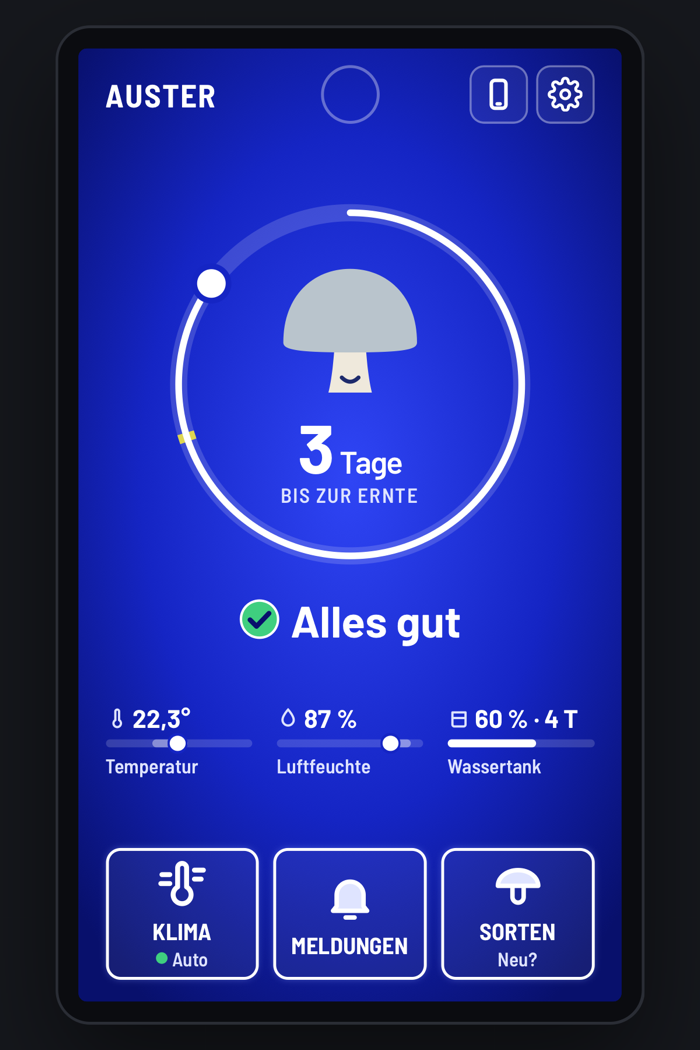
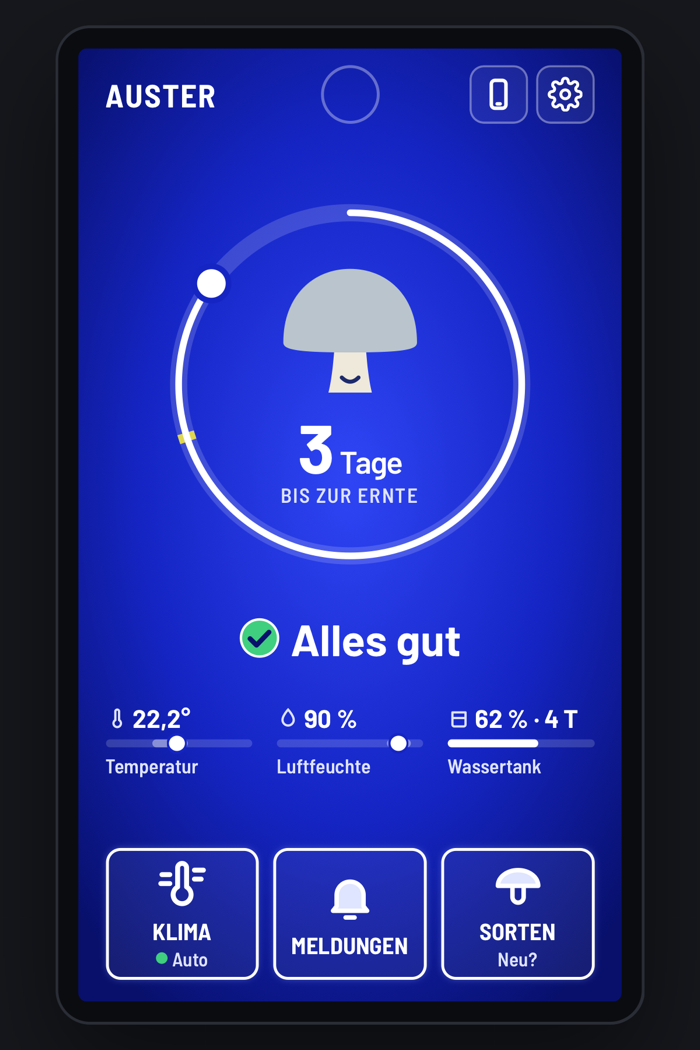
feat: größere Fenster für Kammer leeren, Zuchtset, Darstellung, Sprache; Darstellung Individuell (nur Anzeige); Alles gut mittig; Fenster in der Pause nicht abgedunkelt

diff --git a/01-konzept/bedienfeld/index.html b/01-konzept/bedienfeld/index.html
@@ -107,7 +107,7 @@ button{font:inherit;color:inherit;cursor:pointer;-webkit-tap-highlight-color:tra
 .hum small{font-size:5.4cqw;font-weight:600;margin-left:1.2cqw}
 .humlbl{font-family:var(--f-cond);font-size:3.8cqw;font-weight:600;letter-spacing:.06em;color:var(--ink-soft);text-transform:uppercase;margin-top:.7cqw}
 
-.alert{width:100%;margin-top:2cqw;border:0;background:transparent;padding:1.2cqw 1.4cqw;border-radius:2cqw;display:flex;flex-direction:column;align-items:center;gap:.6cqw;text-align:center;line-height:1.1}
+.alert{width:100%;margin-top:2cqw;border:0;background:transparent;padding:1.2cqw 1.4cqw;border-radius:2cqw;display:flex;flex-direction:column;align-items:center;justify-content:center;gap:.6cqw;text-align:center;line-height:1.1}
 .alert .t{display:flex;align-items:center;gap:2cqw;font-weight:700;font-size:7cqw}
 .alert .t svg{flex:none;width:7.6cqw;height:7.6cqw}
 .alert .a{font-size:4.6cqw;max-width:72cqw;font-weight:600;color:var(--ink-soft)}
@@ -118,13 +118,18 @@ button{font:inherit;color:inherit;cursor:pointer;-webkit-tap-highlight-color:tra
 .alert:not(.warn) .t{font-size:8.4cqw}
 .alert:not(.warn) .t svg{width:8.6cqw;height:8.6cqw}
 /* Einstellungen und Admin: Balken ca. 1,5× so hoch, Schrift größer (Display wird mit dem Finger bedient) */
-.panel-settings .opt,.panel-admin .opt,.panel-sort .opt,.panel-pick .opt{min-height:19.5cqw;padding:3.6cqw 3.6cqw;font-size:5.6cqw;gap:3.2cqw}
-.panel-settings .opt svg,.panel-admin .opt svg,.panel-sort .opt svg,.panel-pick .opt svg{width:8cqw;height:8cqw}
-.panel-settings .opt small,.panel-admin .opt small,.panel-sort .opt small,.panel-pick .opt small{font-size:.85em}
-.panel-settings .bigbtn,.panel-sort .bigbtn,.panel-link .bigbtn{min-height:16cqw;font-size:5.4cqw}
+.panel-settings .opt,.panel-admin .opt,.panel-look .opt,.panel-lang .opt,.panel-sort .opt,.panel-pick .opt{min-height:19.5cqw;padding:3.6cqw 3.6cqw;font-size:5.6cqw;gap:3.2cqw}
+.panel-settings .opt svg,.panel-admin .opt svg,.panel-look .opt svg,.panel-lang .opt svg,.panel-sort .opt svg,.panel-pick .opt svg{width:8cqw;height:8cqw}
+.panel-settings .opt small,.panel-admin .opt small,.panel-look .opt small,.panel-lang .opt small,.panel-sort .opt small,.panel-pick .opt small{font-size:.85em}
+.panel-settings .bigbtn,.panel-look .bigbtn,.panel-lang .bigbtn,.panel-sort .bigbtn,.panel-link .bigbtn{min-height:16cqw;font-size:5.4cqw}
 .panel-sort p,.panel-pick p,.panel-link p,.panel-link ol,.panel-info p{font-size:5cqw}
 .panel-link .rec,.panel-confirm .rec{font-size:6cqw;padding:3.6cqw;min-height:16cqw}
 .panel-confirm ul{font-size:5cqw}
+/* Neu ansetzen: Kammer leeren / Zuchtset einsetzen in Einstellungs-Größe, Knöpfe untereinander */
+.panel-new p{font-size:5.2cqw}
+.panel-new .steps{font-size:4.6cqw}
+.panel-new .btnrow{flex-direction:column;align-items:stretch;gap:3.6cqw}
+.panel-new .bigbtn{flex:none;width:100%;min-height:16cqw;font-size:5.4cqw}
 .panel-link .rec svg{width:8cqw;height:8cqw}
 .panel-info .spec{font-size:5.2cqw}
 .btnrow.wrap{flex-direction:column;align-items:stretch;align-self:stretch;width:100%;gap:3.6cqw;margin-top:3cqw}
@@ -235,6 +240,7 @@ button{font:inherit;color:inherit;cursor:pointer;-webkit-tap-highlight-color:tra
 .swatch{flex:none;width:8cqw;height:8cqw;border-radius:1.8cqw;border:.5cqw solid #fff;box-shadow:0 0 0 .3cqw rgba(0,0,0,.35)}
 .swatch.std{background:radial-gradient(circle at 40% 35%,#2f45f5,#1525c4 60%,#08106c)}
 .swatch.hc{background:#000}
+.swatch.custom{background:conic-gradient(#e74c3c,#f1c40f,#2ecc71,#3498db,#9b59b6,#e74c3c)}
 .opt[disabled]{opacity:.5}
 .opt[aria-checked="true"]{border-color:var(--ink);background:var(--ink);color:var(--lcd-mid)}
 .g3 .opt{justify-content:center;text-align:center}
@@ -560,7 +566,7 @@ function syncLog(list){
 function render(){
   const d=new Date(), T=tgt(), list=alerts(), top=list[0], sev=top?.sev||"ok";
   syncLog(list);
-  $("#screen").classList.toggle("standby",!S.power&&!S.rest);
+  $("#screen").classList.toggle("standby",!S.power&&!S.rest&&!open);  // offenes Fenster nicht abdunkeln
   $("#screen").classList.toggle("away",S.power&&!!S.away);
   $("#screen").classList.toggle("hc",S.theme==="hc");
   const showVal=S.power&&!demo.sensor, pr=progress(), v=pr.p*360, tk=pr.tick*360;
@@ -951,10 +957,12 @@ function langPanel(){
 /* Darstellung: Standard (Blau) oder Hoher Kontrast (Schwarz). Wirkt sofort, damit man es vergleichen kann. */
 function lookPanel(){
   const o=(k,n,d)=>`<button class="opt" role="radio" data-theme="${k}" aria-checked="${(S.theme||"std")===k}"><span class="swatch ${k}" aria-hidden="true"></span><div>${n}<small>${d}</small></div></button>`;
-  panel("look","Darstellung",`<div class="list">${o("std","Standard (Blau)","Ruhiger blauer Hintergrund")}${o("hc","Hoher Kontrast","Schwarzer Hintergrund, alle Texte weiß")}</div>
+  panel("look","Darstellung",`<div class="list">${o("std","Standard (Blau)","Ruhiger blauer Hintergrund")}${o("hc","Hoher Kontrast","Schwarzer Hintergrund, alle Texte weiß")}<button class="opt" data-custom><span class="swatch custom" aria-hidden="true"></span><div>Individuell<small>Such dir deinen eigenen Ton aus</small></div></button></div>
     <p>Warnungen bleiben immer an Dreieck, „!“ und Text erkennbar, nicht nur an der Farbe.</p>
     <button class="bigbtn out" data-x>‹ Einstellungen</button>`,p=>{
     p.querySelectorAll("[data-theme]").forEach(b=>b.onclick=()=>{S.theme=b.dataset.theme;save();render();lookPanel();msg(S.theme==="hc"?"Hoher Kontrast an":"Standard-Farben")});
+    // Individuell: nur gezeigt, im Prototyp ohne Funktion
+    p.querySelector("[data-custom]").onclick=()=>msg("Individuell: im Prototyp noch nicht verfügbar");
     p.querySelector("[data-x]").onclick=settingsPanel;p.querySelector("[data-back]").onclick=settingsPanel});
 }
 /* Fehler melden: eine Kategorie antippen, fertig. Der Bericht geht mit dem nächsten Stand an die App. */

diff --git a/BRIEF.md b/BRIEF.md
@@ -59,7 +59,7 @@ Von Felix bestätigt. Diese Tabelle ist der maßgebliche Stand; Überholtes wird
 | 7–8 | Hardware | **Raspberry Pi bleibt Steuerrechner; als Display dient ein fest eingebautes iPhone 13 mini** (statt Touch Display 2), das die Web-Oberfläche des Pi über WLAN zeigt; Dauerstrom per Kabel. **Echt:** Taster und LED. **Simuliert:** Feuchte und Temperatur (für die Vorführung umschaltbar). Lüfter, Vernebler und Sensor sind nicht Teil des Prototyps. |
 | – | **Leitidee** | **B „Radikal einfach“:** ein großer Zustand (Farbe + Symbol + ein Satz), darunter drei große Kacheln. Verworfen: A „Pilz-Begleiter“ (Charakter, Gamification), C „Physisch zuerst“ (Taster/Drehknopf/LED-Ring). |
 | 10 | Startbild | **Nur 2 Stufen:** „Alles gut“ (grüner Kreis mit Haken) oder **Warnung** (gelbes Warndreieck nach ISO 7010, schwarzer Rand und „!“). Immer Form + Farbe + Text. **Blinken nur beim Warnpunkt** oben (Handeln nötig, Folie 27); alles andere ruhig. Hinweise wie „Ernte prüfen“ laufen unter „Alles gut“. |
-| 10 | Bedienfeld (Box) | **Stand 2026-11-02 (v6):** `01-konzept/bedienfeld/index.html`, aufbauend auf dem Panel-Prototyp (https://claude.ai/artifact/EGmf5bvFTK16eYGfKWVkPE). Begründungen mit Folien: `04-final/entscheidungen-folien.md` und `01-konzept/folien-recherche.md`. **Grundsatz:** Das Display bleibt schlank, Erweitertes gehört in die App (eigene Sorten, 1 Min lüften/befeuchten, Analytics). **Kopfzeile:** eine Zeile, alles 44 pt hoch: links Sorte in Großbuchstaben (AUSTER …); Mitte **Warnpunkt** (dunkler Ring; leuchtet orange und **blinkt nur im Standby**, ohne „!“; wirkt wie ein Warnlicht, siehe Ruhemodus); rechts **Handy-Symbol** und **Zahnrad** als gleich große Knöpfe. Handy antippen → Code + Knopf **VERBUNDEN** → Symbol ausgeblendet (zurück: Einstellungen → Handy verbinden → Trennen; **nach dem Neuladen ist das Symbol wieder da**, für die Präsentation). Keine Uhr. **Mitte:** Ring = Fortschritt bis zur Ernte, in der Mitte Tage bis zur Ernte; darunter Status (nur „Alles gut“, etwas größer, ohne Satz darunter (2026-11-04), oder Warnung mit Handlung und einem großen Knopf). **Werte:** Temperatur · Luftfeuchte · Wassertank einheitlich (Zahl, Balken, Name); Tank als `62 % · 4 T` in gleicher Schrift (T = Tage, Vorlesetext „reicht ca. 4 Tage“). Werte außerhalb des Bereichs mit Warndreieck. **3 Kacheln:** **KLIMA** (klein „Auto“ mit ruhigem grünem Punkt) · **MELDUNGEN** (Zahl) · **SORTEN** (klein „Neu“). **Klima-Fenster (2026-11-04):** ein Satz oben („Die Box regelt Luft, Feuchte, Wärme und Licht selbst.“), darunter 4 **Textzeilen mit dezentem Trennstrich** (wie der Verlauf in Meldungen): Lüfter · Nebler · Heizung · Licht, je **AUTO** und 1–3 weiße Wörter (mit **konkreten Bedingungen je Sorte und Phase**: Lüfter „alle 30 Min frische Luft“ (beim Durchwachsen „nur bei zu viel CO₂“), Nebler „an unter X % Feuchte“, Heizung „an unter X °C“, Licht „8–20 Uhr“ (beim Durchwachsen aus) + **beiger runder Taster-Zeichen** „Taster ↓ schaltet um“; **Licht = Auto + Taster** (Taster schaltet bis zum nächsten Wechsel um); **ohne Eingriff**, keine Live-Zustände. **Klima und Meldungen** haben dieselbe Größe wie die Einstellungen. **Grundsatz: Rahmen = drückbar, Trennstrich = nur Text** (farbige Statusbalken wie „Alles gut“ bleiben). **Meldungen:** Stand mit Datum/Uhrzeit, offene Meldungen mit Handlung und „seit“, **Verlauf behobener Meldungen grün mit Haken** („behoben · von – bis“). „Zu nass“/„Braucht Frischluft“ mit GESEHEN. **Sortenlisten:** Schwierigkeit als **1–3 kleine Pilze** (volle = Stufe, blasse = nicht; wie ein Level, nicht wie eine Bewertung mit Sternen; auch auf der Detailseite) und nur „20 Tage“; Fenster Sorten, Neu ansetzen, Sorte, Handy verbinden in Einstellungs-Größe. **Sorten · Neu:** oben Stand des Durchgangs und Knopf **Neu ansetzen …** (Sorte wählen, aktuelle „wie bisher“ oben) → Hinweis, was verloren geht (**direkt nach der Ernte** ohne Rückfrage: Sorte antippen → gleich **Zuchtset einsetzen → Starten**, weil die Kammer schon leer ist; zusätzlich **„Kleine Pause einlegen“**: Box ruht, oben „Kein Pilz“, Status „Pause“, Knopf „Neue Sorte“ bzw. SORTEN → „Neue Sorte wählen …“) → **2 s gedrückt halten** → Kammer leeren → Zuchtset einsetzen, Tag 1. Darunter Sorten **ansehen** (Schwierigkeit, Dauer, Temperatur, Feuchte). **Notfall-Rückweg** „Zurück zu …“ 14 Tage. **Einstellungen (Zahnrad):** Handy verbinden · Urlaub · **Sprache** (Prototyp nur Deutsch, andere ausgegraut) · **Darstellung** (Standard Blau / **Hoher Kontrast** Schwarz) · **Hilfe** (rote Flagge, früher „Fehler melden“: Kategorie antippen, geht an die App); „Handy verbinden“ zeigt nur „Meldungen aufs Handy“ (Code erst nach Antippen); „Über diese Box“ entfällt. Balken in Einstellungen und Admin ca. 1,5× so hoch, Schrift größer (Fingerbedienung); ganz unten **Admin-Modus**. **Kein Ruhemodus als Einstellung** (2026-11-04, zu verwirrend für die Präsentation; Standby lässt sich nicht von Hand einschalten). **Standby** nur im Admin-Fall „Tank leer“: Display schwarz ohne Text, nur ein **oranger Punkt (ohne „!“) blinkt**; Antippen beendet den Standby, das Blinken geht aus, und die normale Ansicht zeigt die Meldung. In der normalen Ansicht blinkt kein Punkt, die Warnung steht als Text mit Warndreieck da. **Urlaub:** nur unter Einstellungen, oben „URLAUB ✕“. **Barrierefreiheit:** Kontrast Text ≥ 4,5 : 1 (Warntexte weiß, Nebentexte `#dfe4ff`), Touch-Ziele ≥ 44 pt, Schrift für 50–70 cm, Status nie nur über Farbe, Blinken langsam und bei „Bewegung reduzieren“ aus. Licht nur über Taster und App (Ausnahme bis 8/20 Uhr). Heizung simuliert, Kühlen nur Hinweis. **Admin-Modus (2026-11-04, für die Präsentation):** nur noch **genau zwei Fälle** plus **Zurücksetzen**: **1 · Tank leer** (Standby, siehe oben; AUFGEFÜLLT behebt es, danach bleibt das Display an) und **2 · Pilze fertig** (Ernte fertig startet einen **5-s-Zeitraffer**: Ring läuft voll, Tage zählen herunter, der Pilz wächst in **drei Stufen** (klein < ⅓ · mittel = bisherige Größe · groß > ⅔ des Fortschritts, Unterschied bewusst leicht); danach **„Geerntet? Neue Sorte“** → öffnet direkt **Neu ansetzen** (Sortenwahl); Strich und Knopf im Ring laufen im Zeitraffer synchron). Die drei Wachstumsstufen gelten immer, nicht nur im Zeitraffer (Gamification: Progression). **Startzustand:** Austernpilz frisch angesetzt (Wachstumsphase), **15 Tage bis zur Ernte**, damit der Sprung zur Ernte sichtbar ist. Die übrigen Fehler, automatischen Vorführungen, Tag +1, Taster und Messwerte sind nicht mehr erreichbar (Code bleibt). Ältere Stände (v1–v5, Original) in `01-konzept/bedienfeld/verlauf/`. |
+| 10 | Bedienfeld (Box) | **Stand 2026-11-02 (v6):** `01-konzept/bedienfeld/index.html`, aufbauend auf dem Panel-Prototyp (https://claude.ai/artifact/EGmf5bvFTK16eYGfKWVkPE). Begründungen mit Folien: `04-final/entscheidungen-folien.md` und `01-konzept/folien-recherche.md`. **Grundsatz:** Das Display bleibt schlank, Erweitertes gehört in die App (eigene Sorten, 1 Min lüften/befeuchten, Analytics). **Kopfzeile:** eine Zeile, alles 44 pt hoch: links Sorte in Großbuchstaben (AUSTER …); Mitte **Warnpunkt** (dunkler Ring; leuchtet orange und **blinkt nur im Standby**, ohne „!“; wirkt wie ein Warnlicht, siehe Ruhemodus); rechts **Handy-Symbol** und **Zahnrad** als gleich große Knöpfe. Handy antippen → Code + Knopf **VERBUNDEN** → Symbol ausgeblendet (zurück: Einstellungen → Handy verbinden → Trennen; **nach dem Neuladen ist das Symbol wieder da**, für die Präsentation). Keine Uhr. **Mitte:** Ring = Fortschritt bis zur Ernte, in der Mitte Tage bis zur Ernte; darunter Status (nur „Alles gut“, etwas größer, ohne Satz darunter (2026-11-04), oder Warnung mit Handlung und einem großen Knopf). **Werte:** Temperatur · Luftfeuchte · Wassertank einheitlich (Zahl, Balken, Name); Tank als `62 % · 4 T` in gleicher Schrift (T = Tage, Vorlesetext „reicht ca. 4 Tage“). Werte außerhalb des Bereichs mit Warndreieck. **3 Kacheln:** **KLIMA** (klein „Auto“ mit ruhigem grünem Punkt) · **MELDUNGEN** (Zahl) · **SORTEN** (klein „Neu“). **Klima-Fenster (2026-11-04):** ein Satz oben („Die Box regelt Luft, Feuchte, Wärme und Licht selbst.“), darunter 4 **Textzeilen mit dezentem Trennstrich** (wie der Verlauf in Meldungen): Lüfter · Nebler · Heizung · Licht, je **AUTO** und 1–3 weiße Wörter (mit **konkreten Bedingungen je Sorte und Phase**: Lüfter „alle 30 Min frische Luft“ (beim Durchwachsen „nur bei zu viel CO₂“), Nebler „an unter X % Feuchte“, Heizung „an unter X °C“, Licht „8–20 Uhr“ (beim Durchwachsen aus) + **beiger runder Taster-Zeichen** „Taster ↓ schaltet um“; **Licht = Auto + Taster** (Taster schaltet bis zum nächsten Wechsel um); **ohne Eingriff**, keine Live-Zustände. **Klima und Meldungen** haben dieselbe Größe wie die Einstellungen. **Grundsatz: Rahmen = drückbar, Trennstrich = nur Text** (farbige Statusbalken wie „Alles gut“ bleiben). **Meldungen:** Stand mit Datum/Uhrzeit, offene Meldungen mit Handlung und „seit“, **Verlauf behobener Meldungen grün mit Haken** („behoben · von – bis“). „Zu nass“/„Braucht Frischluft“ mit GESEHEN. **Sortenlisten:** Schwierigkeit als **1–3 kleine Pilze** (volle = Stufe, blasse = nicht; wie ein Level, nicht wie eine Bewertung mit Sternen; auch auf der Detailseite) und nur „20 Tage“; Fenster Sorten, Neu ansetzen, Sorte, Handy verbinden in Einstellungs-Größe. **Sorten · Neu:** oben Stand des Durchgangs und Knopf **Neu ansetzen …** (Sorte wählen, aktuelle „wie bisher“ oben) → Hinweis, was verloren geht (**direkt nach der Ernte** ohne Rückfrage: Sorte antippen → gleich **Zuchtset einsetzen → Starten**, weil die Kammer schon leer ist; zusätzlich **„Kleine Pause einlegen“**: Box ruht, oben „Kein Pilz“, Status „Pause“, Knopf „Neue Sorte“ bzw. SORTEN → „Neue Sorte wählen …“) → **2 s gedrückt halten** → Kammer leeren → Zuchtset einsetzen, Tag 1. Darunter Sorten **ansehen** (Schwierigkeit, Dauer, Temperatur, Feuchte). **Notfall-Rückweg** „Zurück zu …“ 14 Tage. **Einstellungen (Zahnrad):** Handy verbinden · Urlaub · **Sprache** (Prototyp nur Deutsch, andere ausgegraut) · **Darstellung** (Standard Blau / **Hoher Kontrast** Schwarz / **Individuell** „Such dir deinen eigenen Ton aus“, im Prototyp nur angezeigt) · **Hilfe** (rote Flagge, früher „Fehler melden“: Kategorie antippen, geht an die App); „Handy verbinden“ zeigt nur „Meldungen aufs Handy“ (Code erst nach Antippen); „Über diese Box“ entfällt. Balken in Einstellungen und Admin ca. 1,5× so hoch, Schrift größer (Fingerbedienung); ebenso Darstellung, Sprache, Kammer leeren und Zuchtset einsetzen. „Alles gut“ steht mittig zwischen Ring und Werten; offene Fenster werden in der Pause nicht abgedunkelt; ganz unten **Admin-Modus**. **Kein Ruhemodus als Einstellung** (2026-11-04, zu verwirrend für die Präsentation; Standby lässt sich nicht von Hand einschalten). **Standby** nur im Admin-Fall „Tank leer“: Display schwarz ohne Text, nur ein **oranger Punkt (ohne „!“) blinkt**; Antippen beendet den Standby, das Blinken geht aus, und die normale Ansicht zeigt die Meldung. In der normalen Ansicht blinkt kein Punkt, die Warnung steht als Text mit Warndreieck da. **Urlaub:** nur unter Einstellungen, oben „URLAUB ✕“. **Barrierefreiheit:** Kontrast Text ≥ 4,5 : 1 (Warntexte weiß, Nebentexte `#dfe4ff`), Touch-Ziele ≥ 44 pt, Schrift für 50–70 cm, Status nie nur über Farbe, Blinken langsam und bei „Bewegung reduzieren“ aus. Licht nur über Taster und App (Ausnahme bis 8/20 Uhr). Heizung simuliert, Kühlen nur Hinweis. **Admin-Modus (2026-11-04, für die Präsentation):** nur noch **genau zwei Fälle** plus **Zurücksetzen**: **1 · Tank leer** (Standby, siehe oben; AUFGEFÜLLT behebt es, danach bleibt das Display an) und **2 · Pilze fertig** (Ernte fertig startet einen **5-s-Zeitraffer**: Ring läuft voll, Tage zählen herunter, der Pilz wächst in **drei Stufen** (klein < ⅓ · mittel = bisherige Größe · groß > ⅔ des Fortschritts, Unterschied bewusst leicht); danach **„Geerntet? Neue Sorte“** → öffnet direkt **Neu ansetzen** (Sortenwahl); Strich und Knopf im Ring laufen im Zeitraffer synchron). Die drei Wachstumsstufen gelten immer, nicht nur im Zeitraffer (Gamification: Progression). **Startzustand:** Austernpilz frisch angesetzt (Wachstumsphase), **15 Tage bis zur Ernte**, damit der Sprung zur Ernte sichtbar ist. Die übrigen Fehler, automatischen Vorführungen, Tag +1, Taster und Messwerte sind nicht mehr erreichbar (Code bleibt). Ältere Stände (v1–v5, Original) in `01-konzept/bedienfeld/verlauf/`. |
 | 9 | App-Aufbau | **Separate App:** einfache Startseite + 5 Unterseiten, eine davon **Advanced Analytics**. |
 | – | Booklet und Präsentation | **Story mit zwei Personen** (2026-11-02): **A** älterer Nutzer, der wenig bedient (Persona Ingrid, nur Box), und **B** Power-User, der die App als Zusatz nutzt. **Jede Entscheidung muss sich auf A oder B zurückführen lassen**, mit Folie und Erklärung: `04-final/entscheidungen-folien.md`. Dazu Ausschnitt Bauprozess mit Skizzen und 1–2 FreeCAD-Bildern. **Präsentation ca. 5 Minuten, ohne Folien** (2026-11-04): live 3D-Entwurf/Haptik (Teammitglied, ca. 1–1,5 Min.) → **Bedienfeld (Felix, 2 Min.)** → App (Anlin, ca. 1,5 Min.); Personas **ohne Altersangabe** (A Ingrid, B Power-User). Bedienfeld an Ingrid: Oberfläche kurz begründen, dann **Case 1 Tank leer** (haptische Aufgabe) → **Case 2 Pilze fertig, neue Sorte** → **Case 3 Handy verbinden** zuletzt als Übergang zur App. Spickzettel mit Stichpunkten in `04-final/praesentation.md`. Der Foliensatz https://claude.ai/artifact/DcLZePjqNpwgHBrxHGHFha wird nicht gezeigt. **Bedienfeld in der Box:** iPhone als Web-App vom Home-Bildschirm im Vollbild, Seite vom Mac (`01-konzept/bedienfeld/iphone-server.sh`), bis der Pi das übernimmt. **Für den 05.11. ist Vollbild wichtiger als App-Sync** (2026-11-04): Das iPhone in der Box läuft ohne Verbindung zur App; die Sync mit der App zeigt nur das Bedienfeld am Mac über den claude.ai-Link. **Booklet: 5 Seiten pro Person**; Felix: Box + Bedienfeld an Typ A (`04-final/booklet-felix.md`), abgestimmt mit den Teilen der anderen. Grundlage ist das eingefrorene Bedienfeld v6 in `04-final/bedienfeld-v6/`. |
 | – | Begriffe Box ↔ App | Gleiche Wörter, Symbole und Farben in Box und App: `01-konzept/begriffe-box-app.md` (für das App-Teammitglied). |
